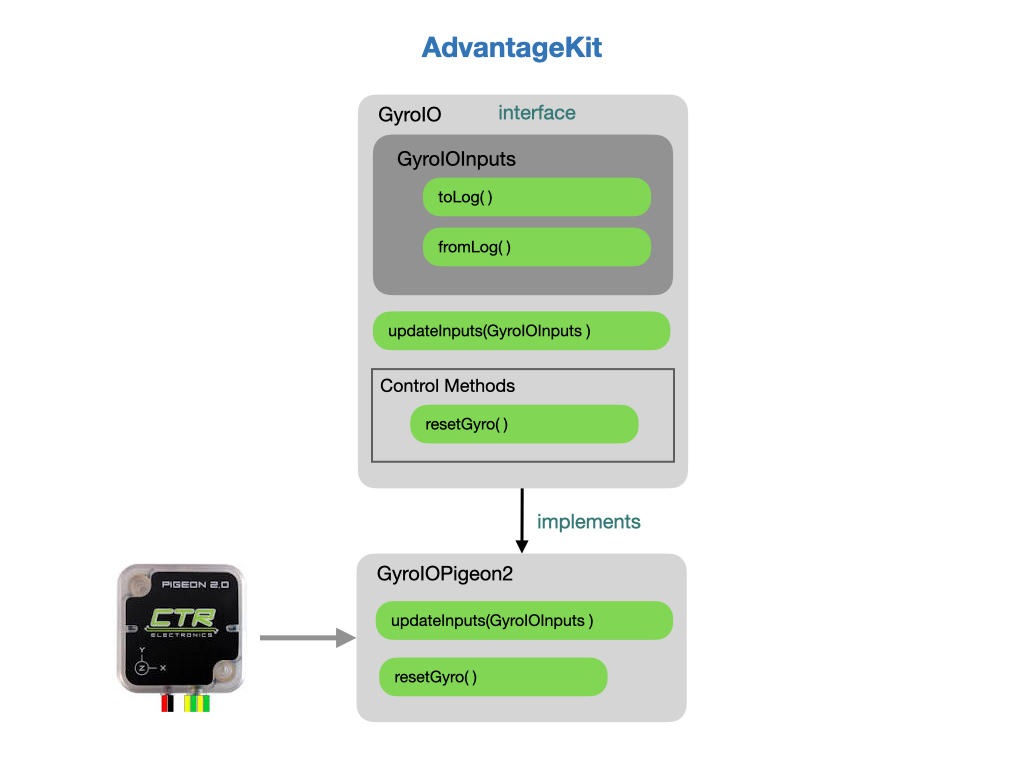
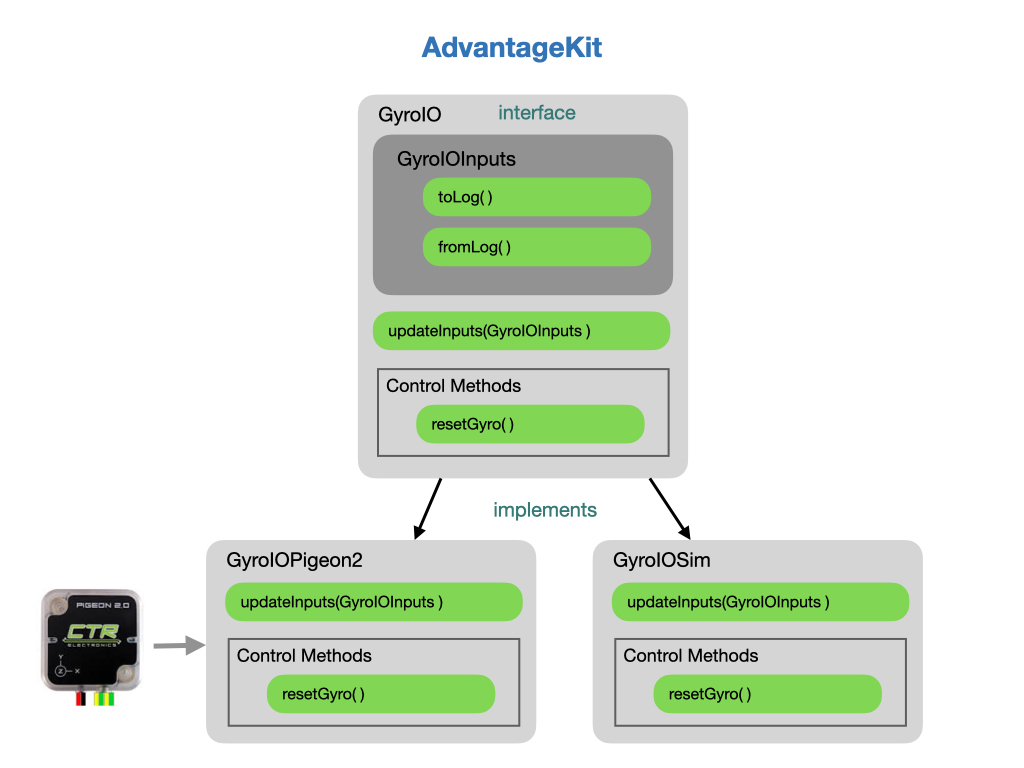
Worked on AdvantageKit section

Changed region(s): [[0.0312, 0.4688, 0.9062, 0.9688]]

diff --git a/docs/RoboRIO/AdvantageKit.md b/docs/RoboRIO/AdvantageKit.md
@@ -1,29 +1,21 @@
 # Advantage Kit
-AdvantageKit is a logging framework that records all of the data flowing into the robot code. After a match, these values can be replayed to the robot code in a simulator. The log needs to be replayed using the same version of code that generated this log. See [What is Advantage Kit](https://github.com/Mechanical-Advantage/AdvantageKit/blob/main/docs/WHAT-IS-ADVANTAGEKIT.md) for more information.
+AdvantageKit is a logging framework that records all of the data flowing into the robot code. After a match, these values can be replayed to the robot code in a simulator. The log needs to be replayed using the same version of code that generated the log. See [What is Advantage Kit](https://github.com/Mechanical-Advantage/AdvantageKit/blob/main/docs/WHAT-IS-ADVANTAGEKIT.md) for more information.
 
 ## Installation
-To install the *Advantage Kit* libraries into your project go to [Advantage Kit Installation Page](https://github.com/Mechanical-Advantage/AdvantageKit/blob/main/docs/INSTALLATION.md#new-projects).  Follow the instructions on that page for setting up a project. Commands need to be added to the `build.gradle` file, and to the *Robot* class. You should also add the *Gversion Plugin (Git Metadata)*, as documented on the installation page.
-
-The following `build.gradle` code may not be needed and will cause build errors:
-
-    task(checkAkitInstall, dependsOn: "classes", type: JavaExec) {
-        mainClass = "org.littletonrobotics.junction.CheckInstall"
-        classpath = sourceSets.main.runtimeClasspath
-    }
-    compileJava.finalizedBy checkAkitInstall
+To install the *Advantage Kit* libraries into your project go to [Advantage Kit Installation Page](https://github.com/Mechanical-Advantage/AdvantageKit/blob/main/docs/INSTALLATION.md#new-projects).  Follow the instructions on that page for setting up a project. Commands need to be added to the `build.gradle` file, and to the *Robot* class. You should also add the *Gversion Plugin (Git Metadata)*, as documented on the installation page. This ensures that you can match the logfiles with the correct version of the code that generated them. 
 
 ## AdvantageKit Modes
 *AdvantageKit* runs in two modes, **Record** or **Playback**. 
 
-Record mode happens by running the real robot or by running a WPI Simulation.  While running on the real robot it's set to write out to log files on the RoboRio and can also publish to the Network Tables.  It's recommended that you use a thumb drive on the RoboRio to hold the log files. You can also write log files from the WPI Simulator.  In this case the log files are written to the project directory under the top level `logs` folder.
+Record mode happens by running the real robot or by running a WPI Simulation.  While running on the real robot it's set to write out to log files on the RoboRio and can also publish to the Network Tables.  It's recommended that you use a thumb drive on the RoboRio to hold the log files. When running the WPI Simulator the log files are written to the project directory under the top level `logs` folder.
 
 Once you have a log file you can simply play it back in *AdvantageScope*.  If you want to make changes, such as collecting more data, then you can use *AdvantageKit*'s playback mode to create a new logfile containing the additional data.
 
-In playback mode it reads the log file previously written during a match or simulation and plays it back to the robot code. You start the playback by running the **Simulate Robot Code** option in VSCode. When the playback runs it creates a new logfile that can be viewed in *AdvantageScope*.  Note that the code will run as fast as possible in the WPI Simulator and then exit, so the review must be done from *AdvantageScope*.
+In playback mode it reads the log file previously written during a match or simulation and plays it back to the robot code. You start the playback by running the **Simulate Robot Code** option in VSCode. When the playback runs it can create a new logfile that included any new data collection that was added.  Note that the code will run as fast as possible in the WPI Simulator and then exit, so the review must be done from *AdvantageScope*.
 
 ![AdvantageKit IOLayer](../images/AdvantageKit/AdvantageKit.002.jpeg)
 
-Here's how these modes are enabled in the `initRobot()` function.
+Here's an example of how these modes can be enabled.  This code goes in the `initRobot()` function of the *Robot* class.
 
     Logger.recordMetadata("ProjectName", "MyProject"); // Set a metadata value
 
@@ -62,12 +54,12 @@ After installing *AdvantageKit* you need to configure the robot code in order to
       import org.littletonrobotics.junction.Logger;
 
 ### Setting up the IO Layers
-By necessity, any interaction with external hardware must be isolated such that all input data is logged and can be replayed in the simulator where that hardware is not present. We need to restructure the subsystem such that hardware interfacing occurs in a separate object called the "IO" layer. The IO layer includes an interface defining all methods used for interacting with the hardware along with one or more implementations that make use of vendor libraries to carry out commands and read data.
+By necessity, any interaction with external hardware must be isolated such that all input data is logged and can be replayed in *AdvantageScope* where that hardware is not present. We need to restructure the subsystem such that hardware interfacing occurs in a separate object called the *IO Layer*. The IO layer includes an interface defining all methods used for interacting with the hardware along with one or more implementations that make use of vendor libraries to carry out commands and read data.
 
-The following example sets up an IO Layer for the gyro.
+The following section shows how to set up an IO Layer for the gyro and implement it in the *Drivetrain* subsystem.
 
 ### Setting up the GyroIO Interface
-
+Each hardware system should have an interface class that defines the input/output data that should be logged, and methods used to control the hardware. Specific hardware classes can then be created that implement the IO interface.  The example diagram the real Pigeon2 hardware and a simulation of it.
 
 ![AdvantageKit IOLayer](../images/AdvantageKit/AdvantageKit.001.jpeg)
 
@@ -106,30 +98,29 @@ We're going to use the *Pigeon2* hardware so create a class called *GyroIOPigeon
         
         public GyroIOPideon2() {            
         }
-
-        // Updates the set of loggable inputs. 
-        public void updateInputs(GyroIOInputs inputs) {
-            inputs.gyroYawPosition = this.pigeon.getAccumGyroZ().getValue();
+            // Updates the set of loggable inputs. 
+            public void updateInputs(GyroIOInputs inputs) {
+                inputs.gyroYawPosition = this.pigeon.getAccumGyroZ().getValue();
         }
     }
 
 ### Implementing Control Inputs
-Any control inputs must be defined in the interface class.
+Since any interaction with the hardware now goes through the IO Layer, any control inputs must be defined in the interface class and implemented in the hardware specific class.  To define in the interface class:
 
     public default void resetGyro() {}
     
-In the GyroIOPigeon2 class implement the control input.
+And to implement in the hardware specific *GyroIOPigeon2* class:
 
     @Override
     public void resetGyro() {
         this.pigeon.reset();
     }
 
-See [Recording Inputs](https://github.com/Mechanical-Advantage/AdvantageKit/blob/main/docs/RECORDING-INPUTS.md) in the AdvantageKit documentation.
+See [Recording Inputs](https://github.com/Mechanical-Advantage/AdvantageKit/blob/main/docs/RECORDING-INPUTS.md) in the AdvantageKit documentation for more information.
 
 ### Subsystem Setup
+With the IO layers created they can now be used by the subsystem.  The example Gyro IO Layer can be used by the Drivetrain class.  We would also define an IO layer for the drive train motors so the example below shows how they would both be used.
 
-Brings in the DrivetrainIO class. This gives us direct control to the hardware/simulated swerve module
 
     private final DrivetrainIO io;
     private final DrivetrainIOInputs inputs = new DrivetrainIOInputs();
@@ -144,36 +135,54 @@ The hardware interface gets passed into the *Drivetrain*'s constructor.
         this.gyroIO = gyroIO;
     }
 
-Update input data from the IO layer, and then send the input data to the logging framework (or update from the log during replay).
+In the `periodic()` routine the input data gets updated from the IO layer, and then get sent to the logging framework (or updates from the log during replay).
 
     periodic() {
         io.updateInputs(inputs);
         Logger.getInstance().processInputs("Drive/" + name + "Module", inputs);
     }    
 
-Use the inputs in the subsystem.
+In the subsystem methods the data from the IO layer is used.
 
-    double currentAngle = inputs.steerPositionRad;
+    public Rotation2d getHeading() {
+        return gyroInputs.gyroYaw;
+    }
 
 The logging framework supports recording this output data on the real robot and during replay. 
 
-    Logger.getInstance().recordOutput("Drive/Angle", getPose().getRotation().getRadians());    
+    Logger.getInstance().recordOutput("Drive/Angle", getHeading());   
 
-### Update RobotContainer    
+See [Recording Outputs](https://github.com/Mechanical-Advantage/AdvantageKit/blob/main/docs/RECORDING-OUTPUTS.md) in the AdvantageKit documentation for more information.
 
-    public RobotContainer() {
-      if (isReal()) {
-          // Instantiate IO implementations to talk to real hardware
-          driveTrain = new DriveTrain(new GyroIOPideon2(),
-                                  new DrivetrainIOFalcon500(), 
-                                  m_transmission::getGearState);
-      } else {
+### Passing the IO Layer to the Subsystem
+Here's an example of how the IO Layer would get passed to the subsystem during its creation.  This code would go into the constructor of the *RobotContainer* class.  On the real robot we would use the actual hardware, otherwise the simulation IO layer would be used.  In playback mode we want to disable the IO layer since the data is coming from the previously generated log files.
+
+    if (Robot.isReal()) {
+      // Instantiate IO implementations to talk to real hardware
+      m_drivetrain = new Drivetrain(new GyroIOPideon2(),
+                                    new DrivetrainIOFalcon500(), 
+                                    m_transmission::getGearState);
+    } else {
+      
+      switch (Constants.currentMode) {     
+        case SIM:
           // Use anonymous classes to create "dummy" IO implementations
-          driveTrain = new DriveTrain(new GyroIOPideon2(),
-                                  new DrivetrainIOFalcon500(), 
-                                  m_transmission::getGearState);
+          DrivetrainIOSim drivetrainSim = new DrivetrainIOSim();
+          m_drivetrain = new Drivetrain(new GyroIOSim(drivetrainSim),
+                                        drivetrainSim, 
+                                        m_transmission::getGearState);
+          break;
+
+        default:
+          // Replayed robot, disable IO implementations
+          m_drivetrain = new Drivetrain(new GyroIOSim(null) {},
+                                        new DrivetrainIOSim() {}, 
+                                        null);
+          break;
       }
     }
+
+See the [Differential Drive example project](https://github.com/Mechanical-Advantage/AdvantageKit/tree/main/example_projects/diff_drive/src/main) for a full implementation.  For an example of a swerve drive implementation see the [Swerve Drive example](https://github.com/Mechanical-Advantage/AdvantageKit/tree/main/example_projects/swerve_drive/src/main)
 
 ## Advantage Scope
 AdvantageScope is a robot diagnostics, log review/analysis, and data visualization application for FIRST Robotics Competition teams. It reads logs in WPILOG, DS log, and RLOG file formats, plus live robot data viewing using NT4 or RLOG streaming. AdvantageScope can be used with any WPILib project, but is also optimized for use with our AdvantageKit logging framework. Here's the online documentation of [AdvantageScope](https://github.com/Mechanical-Advantage/AdvantageScope/blob/main/docs/INDEX.md).
@@ -185,8 +194,12 @@ To install *Advantage Scope* go to the [releases page](https://github.com/Mechan
 Standard WPILib data logging can be used with *AdvantageScope*.  This provides a lot of data and may be sufficient without using *AdvantageKit*.  See [On-Robot Telemetry Recording Into Data Logs](https://docs.wpilib.org/en/stable/docs/software/telemetry/datalog.html) in the FRC documentation.
 
 ### Running Live Simulator Streams
-You can connect it to a running Simulator via *File->Connect to Simulator*
+If you run your robot code in simulator mode using **Simulate Robot Code** from VSCode, then you can connect it to a running simulator in *AdvantageScope* via **File->Connect to Simulator**.  In the example below the robot pose has been dropped into the *Odometry* tab.  As you move the robot in the WPI Simulator it should also move in the AdvantageScope view.
+
+![AdvantageKit IOLayer](../images/AdvantageKit/AdvantageKit.007.jpeg)
 
 ## References
 
-- [Advantage Kit](https://github.com/Mechanical-Advantage/AdvantageKit/blob/main/docs/WHAT-IS-ADVANTAGEKIT.md)
+- [Advantage Kit](https://github.com/Mechanical-Advantage/AdvantageKit/blob/main/docs/WHAT-IS-ADVANTAGEKIT.md) documentation.
+
+- [AdvantageScope](https://github.com/Mechanical-Advantage/AdvantageScope/blob/main/docs/INDEX.md) documentation

diff --git a/docs/Romi/SC/romiSubsystems.md b/docs/Romi/SC/romiSubsystems.md
@@ -93,10 +93,10 @@ We're now done with this update!
 ### <a name="heading"></a>Create Heading Method
 In later programs we're going to need to get the current heading of our robot.  The heading is obtained from the *RomiGyro* class that we modified in the previous lab.  The *RomiGyro* is defined as a subsystem of the *Drivetrain* class.
 
-Update the *Drivetrain* class with a new method called `getHeading()` that will be used to get the current heading of the robot.  You can place this method at around line `132` of the *Drivetrain* class just after the `getGyroAngleZ()` method.  The method will return a `double` value and be defined as `public`.  The return value will be whatever we get from the `getRotation2d().getDegrees()` method that was defined in the *Gyro* interface.  That's why we implemented that interface in the *RomiGyro* class.  When you're done it should look like this:
+<!-- Update the *Drivetrain* class with a new method called `getHeading()` that will be used to get the current heading of the robot.  You can place this method at around line `132` of the *Drivetrain* class just after the `getGyroAngleZ()` method.  The method will return a `double` value and be defined as `public`.  The return value will be whatever we get from the `getRotation2d().getDegrees()` method that was defined in the *Gyro* interface.  That's why we implemented that interface in the *RomiGyro* class.  When you're done it should look like this: -->
 
-    public double getHeading() {
-      return m_gyro.getRotation2d().getDegrees();
+    public Rotation2d getHeading() {
+        return new Rotation2d(getGyroAngleZ() * (Math.PI/180));
     }
 
 We also may need to reset the heading, so create another method named `zeroHeading()` to accomplish this.  Notice that the name "zeroHeading" describes exactly **what** we want the method to do and not **how** we want it to be done.  The **how** part is hidden within the function. This is an example of [Declarative Programming](https://en.wikipedia.org/wiki/Declarative_programming).

diff --git a/docs/Romi/SC/romiOdometry.md b/docs/Romi/SC/romiOdometry.md
@@ -29,8 +29,8 @@ The trackwidth is a physical attribute of the robot so it can be represented as 
 Create the following method in the *Drivetrain* class.  We'll need to wrap the measured encoder values in a *DifferentialDriveWheelSpeeds* object for easier integration with the *RamseteCommand* class, which we'll look at later in the course.  Since `getWheelSpeeds()` tells you the current state of the system, it should go in the **System State** section of the *DriveTrain* class.
 
     public DifferentialDriveWheelSpeeds getWheelSpeeds() {
-        return new DifferentialDriveWheelSpeeds(m_leftEncoder.getDistance(), 
-                                                m_rightEncoder.getDistance());
+        return new DifferentialDriveWheelSpeeds(m_leftEncoder.getRate(), 
+                                                m_rightEncoder.getRate());
     }
 
 We can now make use of this class to publish telemetry.  So place the following code in the `publishTelemetry()` function.
